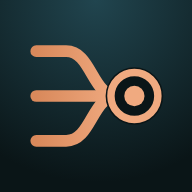
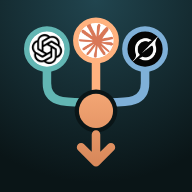
The Switchboard mark, a working screen, a project dropdown, and top answer wording
- Mark: ChatGPT, Claude and Grok feeding one copper point; used as the app icon, on the login screen and while working
- Working screen replaces the question box while the AIs answer, with per-AI progress
- Project dropdown under the pill with icons and a one-line explanation
- One wide Ask button with an arrow; Improve moves up beside the question
- Tagline shows on phones; top answer wording throughout; provider logos served from the app

Claude-Session: https://claude.ai/code/session_01MbFi8CK9HjwumDj8FfHCF7

Changed region(s): [[0.125, 0.0625, 0.875, 0.875]]

diff --git a/app/page.tsx b/app/page.tsx
@@ -167,6 +167,13 @@ export default function Home() {
   }
   function pickPreset(p: Preset) { setPresetLocked(true); applyPreset(p); }
   useEffect(() => { if (!idea.trim()) setPresetLocked(false); }, [idea]);
+  useEffect(() => {
+    if (!picking) return;
+    const away = (e: Event) => { if (!(e.target as Element)?.closest?.(".projwrap")) setPicking(false); };
+    const key = (e: KeyboardEvent) => { if (e.key === "Escape") setPicking(false); };
+    document.addEventListener("pointerdown", away); document.addEventListener("keydown", key);
+    return () => { document.removeEventListener("pointerdown", away); document.removeEventListener("keydown", key); };
+  }, [picking]);
   function onIdeaChange(v: string) {
     setIdea(v);
     const id = predictPreset(v);
@@ -214,8 +221,8 @@ export default function Home() {
       setHistory((h) => saveHistory(h.map((x) => (x.id === id ? { ...x, verdict: v, updatedAt: Date.now() } : x))));
       sync.syncSoon();
       if (activeRun.current !== id) return;
-      setVerdict(v); setAnnounce("Best answer ready.");
-    } catch (e: any) { if (activeRun.current === id) setErr(`Couldn't combine the answers: ${e.message} Tap "Combine these answers" to try again.`); } finally { setJudging(false); }
+      setVerdict(v); setAnnounce("Top answer ready.");
+    } catch (e: any) { if (activeRun.current === id) setErr(`Couldn't get the top answer: ${e.message} Tap "Get the top answer" to try again.`); } finally { setJudging(false); }
   }
 
   async function runOne(provider: ProviderId, prompt: string, id: string): Promise<RunResult> {
@@ -256,7 +263,7 @@ export default function Home() {
     const id = uid(); setRunId(id); setRunPrompt(prompt); activeRun.current = id;
     setAnnounce(`Sent to ${targets.map(label).join(", ")}.`);
     setResults(Object.fromEntries(targets.map((s) => [s, "loading" as const])));
-    setTimeout(() => resultsRef.current?.scrollIntoView({ behavior: scrollBehavior(), block: "start" }), 50);
+    setTimeout(() => window.scrollTo({ top: 0, behavior: scrollBehavior() }), 50);
 
     const finished = await Promise.all(targets.map((provider) => runOne(provider, prompt, id)));
 
@@ -295,10 +302,10 @@ export default function Home() {
   const askLabel = sendable.length > 2 ? `Ask ${sendable.length} AIs` : sendable.length ? `Ask ${sendable.map(label).join(" + ")}` : "";
   const nextStep = !sendable.length ? "Pick at least one AI above."
     : running ? (mode === "image" ? "Drawing. Pictures take about half a minute." : "Asking. Answers take up to a minute.")
-    : judging ? "Combining the answers into one. About a minute."
+    : judging ? "Working out the top answer. About a minute."
     : verdict ? "Done. Copy the answer, or tap Change something to adjust it."
     : done.length && mode === "image" ? "Done. Tap Save image to keep one, or Change something to adjust it."
-    : done.length && canJudge ? "Answers are in. Tap Combine these answers to get one best answer."
+    : done.length && canJudge ? "Answers are in. Tap Get the top answer."
     : done.length ? "Done. Tap Change something to adjust it, or Start over."
     : brief ? `Your improved question is ready. Tap ${askLabel}.`
     : idea.trim() ? `Tap ${askLabel}. Or improve the question first, if you want.`
@@ -307,12 +314,30 @@ export default function Home() {
   return (
     <main>
       <header className="top">
-        <h1 className="brand">Switchboard<span>ask once · several AIs answer · one best answer</span></h1>
+        <h1 className="brand">Switchboard<span>ask once · get the top answer</span></h1>
         <div className="topright">
-          <button className={`projpill ${project?.id !== "none" ? "has" : ""}`} aria-expanded={picking} aria-controls="projects" onClick={() => { setPicking((v) => !v); setNaming(false); }}>
-            <svg aria-hidden="true" width="14" height="14" viewBox="0 0 24 24" fill="none" stroke="currentColor" strokeWidth="2.2" strokeLinecap="round" strokeLinejoin="round"><path d="M3 7a2 2 0 0 1 2-2h4l2 2h8a2 2 0 0 1 2 2v9a2 2 0 0 1-2 2H5a2 2 0 0 1-2-2z" /></svg>
-            <span>{project?.id !== "none" ? project.name : "Project"}</span>
-          </button>
+          <div className="projwrap">
+            <button className={`projpill ${project?.id !== "none" ? "has" : ""}`} aria-expanded={picking} aria-haspopup="menu" aria-controls="projects" onClick={() => { setPicking((v) => !v); setNaming(false); }}>
+              <span>{project?.id !== "none" ? project.name : "No project"}</span>
+              <svg aria-hidden="true" width="12" height="12" viewBox="0 0 24 24" fill="none" stroke="currentColor" strokeWidth="2.6" strokeLinecap="round" strokeLinejoin="round"><path d="M6 9l6 6 6-6" /></svg>
+            </button>
+            {picking && (
+              <div className="projmenu" id="projects" role="menu" aria-label="Projects">
+                <button role="menuitemradio" aria-checked={project?.id === "none"} className={project?.id === "none" ? "on" : ""} onClick={() => { chooseProject("none"); setEditingProject(false); setPicking(false); }}>
+                  <svg aria-hidden="true" width="16" height="16" viewBox="0 0 24 24" fill="none" stroke="currentColor" strokeWidth="2" strokeLinecap="round" strokeLinejoin="round"><path d="M3 7a2 2 0 0 1 2-2h4l2 2h8a2 2 0 0 1 2 2v9a2 2 0 0 1-2 2H5a2 2 0 0 1-2-2z" /></svg>No project
+                </button>
+                {shownProjects.filter((p) => p.id !== "none").map((p) => (
+                  <button key={p.id} role="menuitemradio" aria-checked={project?.id === p.id} className={project?.id === p.id ? "on" : ""} onClick={() => { chooseProject(p.id); setEditingProject(false); setPicking(false); }}>
+                    <svg aria-hidden="true" width="16" height="16" viewBox="0 0 24 24" fill="none" stroke="currentColor" strokeWidth="2" strokeLinecap="round" strokeLinejoin="round"><rect x="4" y="11" width="16" height="10" rx="2" /><path d="M8 11V7a4 4 0 0 1 8 0v4" /></svg>{p.name}
+                  </button>
+                ))}
+                <button role="menuitem" className="new" onClick={() => { setPicking(false); setNaming(true); }}>
+                  <svg aria-hidden="true" width="16" height="16" viewBox="0 0 24 24" fill="none" stroke="currentColor" strokeWidth="2.4" strokeLinecap="round"><path d="M12 5v14M5 12h14" /></svg>New project…
+                </button>
+                <p>A project holds things every AI should always know, like a brand's colors or a client's situation.</p>
+              </div>
+            )}
+          </div>
           {Object.keys(results).length > 0 && (
             <button className="iconbtn" aria-label="Start over" title="Start over" onClick={() => { activeRun.current = null; setRunId(null); setRunPrompt(""); setErr(""); setRounds([]); setRevising(false); setResults({}); setVerdict(""); setBrief(""); setIdea(""); setPresetLocked(false); window.scrollTo({ top: 0, behavior: scrollBehavior() }); }}>
               <svg aria-hidden="true" width="20" height="20" viewBox="0 0 24 24" fill="none" stroke="currentColor" strokeWidth="2.2" strokeLinecap="round"><path d="M12 5v14M5 12h14"/></svg>
@@ -341,19 +366,6 @@ export default function Home() {
           {history.length > 0 && (
             <ConfirmButton label="Clear history" question={sync.status.state === "off" ? "Clear all history?" : "Clear all history on every device?"} yes="Clear" no="Keep" onYes={() => { sync.markCleared(); setHistory([]); save(LS.history, []); historyCache.partial = false; setShowAllHistory(false); }} />
           )}
-        </section>
-      )}
-
-      {picking && (
-        <section className="panel projects" id="projects" aria-label="Projects">
-          <p className="muted projwhy">A project is a place for things every AI should always know, like a brand's colors or a client's situation. Pick one and every answer keeps it in mind.</p>
-          <div className="chips projlist" role="group" aria-label="Choose a project">
-            <button className={`chip ${project?.id === "none" ? "on" : ""}`} aria-pressed={project?.id === "none"} onClick={() => { chooseProject("none"); setEditingProject(false); setPicking(false); }}>No project</button>
-            {shownProjects.filter((p) => p.id !== "none").map((p) => (
-              <button key={p.id} className={`chip ${project?.id === p.id ? "on" : ""}`} aria-pressed={project?.id === p.id} onClick={() => { chooseProject(p.id); setEditingProject(false); setPicking(false); }}>{p.name}</button>
-            ))}
-            <button className="chip newchip" onClick={() => { setPicking(false); setNaming(true); }}>+ New project</button>
-          </div>
         </section>
       )}
 
@@ -392,11 +404,17 @@ export default function Home() {
         </section>
       )}
 
-      {/* Idea */}
-      <section className="panel idea">
+      {/* Idea. Folds away while the AIs work, so the working screen is what you see. */}
+      <section className="panel idea" hidden={running || judging}>
         <div className="row"><label className="lbl" htmlFor="idea">Ask anything</label><span className="modepill">{mode === "image" ? "Picture" : "Words"}</span></div>
         <textarea id="idea" rows={4} value={idea} onChange={(e) => onIdeaChange(e.target.value)} onKeyDown={(e) => { if ((e.metaKey || e.ctrlKey) && e.key === "Enter") { e.preventDefault(); send(); } }}
           placeholder="Type your question or what you want made. Rough is fine." />
+        {!done.length && (
+          <div className="row improverow">
+            <span className="muted">Optional</span>
+            <button className="ghost small" disabled={!idea.trim() || briefing} onClick={sharpen}>{briefing ? "Improving…" : brief ? "Improve it again" : "Improve my question first"}</button>
+          </div>
+        )}
 
         <div className="chips" role="group" aria-label="What kind of help">
           {PRESETS.map((p) => (
@@ -429,8 +447,8 @@ export default function Home() {
         </div>
         {mode === "text" && (
           <div className="row judgeRow">
-            <label className="switch"><input type="checkbox" checked={autoJudge} onChange={(e) => setAutoJudge(e.target.checked)} /><span className="track"><span className="knob" /></span> Combine the answers</label>
-            <select className="inline" aria-label="Which AI combines them" value={judgeWith} onChange={(e) => setJudgeWith(e.target.value as ProviderId)}>
+            <label className="switch"><input type="checkbox" checked={autoJudge} onChange={(e) => setAutoJudge(e.target.checked)} /><span className="track"><span className="knob" /></span> Get the top answer</label>
+            <select className="inline" aria-label="Which AI picks the top answer" value={judgeWith} onChange={(e) => setJudgeWith(e.target.value as ProviderId)}>
               {providers.filter((p) => p.configured).map((p) => <option key={p.id} value={p.id}>by {p.label}</option>)}
             </select>
           </div>
@@ -465,11 +483,29 @@ export default function Home() {
 
       <div ref={resultsRef} className="anchor" />
 
+      {(running || judging) && (
+        <section className="panel working" aria-live="polite">
+          <Mark size={96} />
+          <h2>{running ? `Asking ${Object.keys(results).length} AI${Object.keys(results).length === 1 ? "" : "s"}…` : "Working out the top answer…"}</h2>
+          <p className="muted">{running ? "Each one answers on its own. Then one of them picks the best of all of them." : `${label(judgeWith)} is reading every answer and writing the top one.`}</p>
+          <ul className="progress">
+            {Object.entries(results).map(([pid, r]) => (
+              <li key={pid} className={r === "loading" ? "wait" : r.error ? "bad" : "done"}>
+                <Logo id={pid as ProviderId} /><span>{label(pid as ProviderId)}</span>
+                <small>{r === "loading" ? (running ? "Thinking…" : "") : r.error ? "Failed" : "Done"}</small>
+                <i><b /></i>
+              </li>
+            ))}
+          </ul>
+          <p className="muted small">This usually takes about a minute.</p>
+        </section>
+      )}
+
       {/* Verdict first — it's the thing you actually use */}
-      {(judging || verdict) && (
-        <section className="panel verdict" aria-busy={judging}>
+      {verdict && !judging && (
+        <section className="panel verdict">
           <div className="row">
-            <h2 className="lbl">{judging ? "Combining the answers…" : `Best answer · combined by ${label(judgeWith)}`}</h2>
+            <h2 className="lbl">{judging ? "Working out the top answer…" : `Top answer · by ${label(judgeWith)}`}</h2>
             {verdict && <CopyBtn text={bestAnswer(verdict)} label="Copy" />}
           </div>
           {judging ? <Skeleton /> : (() => {
@@ -500,7 +536,7 @@ export default function Home() {
         </section>
       )}
       {canJudge && !verdict && (
-        <button className="primary wide" onClick={() => judge(done, (brief || idea).trim(), runId ?? uid())}>Combine these answers</button>
+        <button className="primary wide" onClick={() => judge(done, (brief || idea).trim(), runId ?? uid())}>Get the top answer</button>
       )}
 
       {/* Once there's a verdict, the individual answers step back behind one button. */}
@@ -579,22 +615,18 @@ export default function Home() {
         <section className="howto">
           <div><b>1</b><span>Type a question</span></div>
           <div><b>2</b><span>Pick which AIs answer</span></div>
-          <div><b>3</b><span>Get one best answer</span></div>
+          <div><b>3</b><span>Get the top answer</span></div>
         </section>
       )}
 
       {!revising && <div className="actionbar">
         <p className="nextstep" role="status">{nextStep}</p>
         <div className="actionrow">
-        {done.length > 0 && !running ? (
+        {done.length > 0 && !running && (
           <button className="ghost" aria-expanded={revising} onClick={() => { setRevising(true); setTimeout(() => document.querySelector(".revise")?.scrollIntoView({ behavior: scrollBehavior(), block: "start" }), 60); }}>Change something</button>
-        ) : (
-          <button className="ghost" disabled={!idea.trim() || briefing} onClick={sharpen}>
-            {briefing ? "Improving…" : brief ? "Improve again" : "Improve it first"}
-          </button>
         )}
         <button className="primary" disabled={!(brief || idea).trim() || !sendable.length || running} onClick={() => send()}>
-          {running ? `Asking… ${done.length} of ${Object.keys(results).length} back` : sendable.length ? (sendable.length > 2 ? `Ask ${sendable.length} AIs` : `Ask ${sendable.map(label).join(" + ")}`) : "Pick at least one AI"}
+          {running ? `Asking… ${done.length} of ${Object.keys(results).length} back` : sendable.length ? `${askLabel} →` : "Pick at least one AI"}
         </button>
         </div>
       </div>}
@@ -726,6 +758,24 @@ function ResultImage({ src, name, alt }: { src: string; name: string; alt: strin
         <span role="status">{note || "Or press and hold the image."}</span>
       </figcaption>
     </figure>
+  );
+}
+
+// The Switchboard mark: three sources feeding one point.
+function Mark({ size }: { size: number }) {
+  return (
+    <svg className="markimg" viewBox="20 18 140 140" width={size} height={size} aria-hidden="true">
+      <defs>
+        <clipPath id="mk1"><circle cx="44" cy="46" r="17" /></clipPath><clipPath id="mk2"><circle cx="90" cy="38" r="17" /></clipPath><clipPath id="mk3"><circle cx="136" cy="46" r="17" /></clipPath>
+      </defs>
+      <g fill="none" strokeWidth="8" strokeLinecap="round"><path d="M44 63 V78 C44 96 60 96 78 96 H90" stroke="#62b6b3" /><path d="M90 55 V96" stroke="#ffb27f" /><path d="M136 63 V78 C136 96 120 96 102 96 H90" stroke="#7fb0d8" /></g>
+      <image href="/logos/openai.png" x="27" y="29" width="34" height="34" clipPath="url(#mk1)" />
+      <image href="/logos/anthropic.png" x="73" y="21" width="34" height="34" clipPath="url(#mk2)" />
+      <image href="/logos/xai.png" x="119" y="29" width="34" height="34" clipPath="url(#mk3)" />
+      <g fill="none" strokeWidth="5"><circle cx="44" cy="46" r="19" stroke="#62b6b3" /><circle cx="90" cy="38" r="19" stroke="#ffb27f" /><circle cx="136" cy="46" r="19" stroke="#7fb0d8" /></g>
+      <circle cx="90" cy="104" r="20" fill="var(--panel)" /><circle cx="90" cy="104" r="16" fill="var(--accent2)" />
+      <path d="M90 126 V150 M76 138 L90 152 L104 138" fill="none" stroke="var(--accent2)" strokeWidth="8" strokeLinecap="round" strokeLinejoin="round" />
+    </svg>
   );
 }
 

diff --git a/app/globals.css b/app/globals.css
@@ -102,11 +102,17 @@ body::before { content: ""; position: fixed; top: 0; left: 0; right: 0; height: 
 .projpill span { overflow: hidden; text-overflow: ellipsis; white-space: nowrap; }
 .projpill svg { flex: none; }
 .projpill.has { color: var(--text); border-color: var(--accent); }
-.projpill.has svg { color: var(--accent2); }
-.projects { display: flex; flex-direction: column; gap: 10px; animation: open 200ms var(--ease-out) backwards; }
-.projwhy { margin: 0; max-width: 60ch; }
-.projlist { margin-top: 0; }
-.newchip { border-style: dashed; color: var(--accent2); }
+.projpill svg { color: var(--muted); }
+.topright { position: relative; }
+.projmenu { position: absolute; right: 0; top: calc(100% + 8px); text-align: left; z-index: 30; width: min(300px, calc(100vw - 32px)); padding: 6px; background: var(--panel); border: 1px solid var(--line2); border-radius: var(--r); box-shadow: 0 16px 40px rgba(0, 0, 0, 0.45); animation: open 160ms var(--ease-out) backwards; }
+.projmenu button { display: flex; align-items: center; gap: 10px; width: 100%; text-align: left; background: none; border: 0; border-radius: 10px; padding: 11px 12px; font-weight: 700; font-size: 0.9375rem; color: var(--text); }
+.projmenu button svg { flex: none; color: var(--muted); }
+.projmenu button.on { background: rgba(var(--accent-rgb), 0.14); color: var(--accent2); }
+.projmenu button.on svg { color: var(--accent2); }
+.projmenu button.new { color: var(--accent2); }
+.projmenu button.new svg { color: var(--accent2); }
+@media (hover: hover) { .projmenu button:hover { background: rgba(var(--white-rgb), 0.05); } }
+.projmenu p { margin: 4px 0 2px; padding: 8px 12px 6px; border-top: 1px solid var(--line); font-size: 0.75rem; color: var(--muted); }
 .iconbtn { position: relative; width: 40px; height: 40px; border-radius: var(--pill); border: 1px solid var(--field-line); background: var(--panel); color: var(--muted); display: grid; place-items: center; padding: 0; }
 .badge { position: absolute; top: -4px; right: -4px; background: var(--accent); color: var(--accent-ink); font-size: 0.625rem; font-weight: 800; border-radius: var(--pill); min-width: 18px; height: 18px; display: grid; place-items: center; padding: 0 4px; }
 
@@ -150,6 +156,26 @@ button:disabled { opacity: 0.4; cursor: not-allowed; }
 .newproject input { flex: 1 1 130px; min-width: 0; background: var(--bg2); border: 1px solid var(--field-line); border-radius: var(--r-sm); padding: 10px 12px; font-size: max(16px, 1rem); }
 .newproject .row { margin-top: 10px; }
 .newproject { animation: open 200ms var(--ease-out) backwards; }
+
+.improverow { justify-content: flex-end; gap: 10px; margin-top: 8px; }
+.improverow .muted { margin: 0; font-size: 0.75rem; }
+
+/* Working: while the AIs answer and the top answer is picked */
+.working { display: flex; flex-direction: column; align-items: center; text-align: center; gap: 6px; padding: 22px 16px 18px; border-color: var(--accent); background: linear-gradient(180deg, rgba(var(--accent-rgb), 0.1), rgba(var(--accent-rgb), 0.02)), var(--panel); }
+.working h2 { margin: 6px 0 0; font: 700 1.375rem/1.2 var(--display); letter-spacing: -0.01em; color: var(--text); }
+.working > .muted { margin: 0; max-width: 34ch; }
+.working .small { font-size: 0.75rem; margin-top: 6px; }
+.markimg { filter: drop-shadow(0 10px 24px rgba(var(--accent-rgb), 0.3)); }
+.progress { list-style: none; margin: 14px 0 0; padding: 12px 14px; width: 100%; max-width: 420px; display: flex; flex-direction: column; gap: 12px; background: var(--bg2); border: 1px solid var(--line); border-radius: var(--r-sm); text-align: left; }
+.progress li { display: grid; grid-template-columns: 22px 1fr auto; grid-template-rows: auto auto; column-gap: 10px; row-gap: 6px; align-items: center; font-weight: 700; font-size: 0.9375rem; }
+.progress li small { color: var(--muted); font-weight: 600; font-size: 0.8125rem; }
+.progress li.done small { color: var(--accent2); }
+.progress li.bad small { color: var(--red); }
+.progress li i { grid-column: 1 / -1; display: block; height: 4px; border-radius: 4px; background: var(--line); overflow: hidden; }
+.progress li b { display: block; height: 100%; width: 100%; border-radius: 4px; background: linear-gradient(90deg, var(--accent), var(--accent2)); transform-origin: left; }
+.progress li.wait b { width: 40%; animation: slide 1.4s ease-in-out infinite; }
+.progress li.bad b { background: var(--red); width: 100%; }
+@keyframes slide { 0% { transform: translateX(-100%); } 100% { transform: translateX(260%); } }
 
 /* Chips: task types, image styles, AIs */
 .chips { display: flex; gap: 8px; flex-wrap: wrap; margin-top: 14px; }
@@ -331,6 +357,7 @@ span.logo { display: inline-block; } /* holds the space while the logo loads */
 .login input { background: var(--bg2); border: 1px solid var(--field-line); border-radius: var(--r-sm); padding: 13px 14px; font-size: max(16px, 1rem); }
 .login .error { margin: 0; }
 .login .brand { margin-bottom: 6px; }
+.login .mark { display: flex; justify-content: center; margin: 4px 0 8px; filter: drop-shadow(0 10px 28px rgba(var(--accent-rgb), 0.25)); }
 
 /* Focus: fields get an inset copper ring, everything else an offset one */
 textarea:focus, select:focus, input:focus { outline: 2px solid var(--accent); outline-offset: -1px; }
@@ -370,7 +397,7 @@ button:focus-visible, a:focus-visible, summary:focus-visible, .tablewrap:focus-v
 }
 @media (max-width: 480px) {
   .brand { font-size: 1.5rem; }
-  .brand span { display: none; }
+  .brand span { font-size: 0.5625rem; letter-spacing: 0.08em; white-space: nowrap; }
   .projpill { max-width: 118px; padding: 7px 10px; font-size: 0.75rem; }
   .iconbtn { width: 36px; height: 36px; }
   .howto div { font-size: 0.75rem; padding: 10px; }
@@ -416,6 +443,7 @@ button:focus-visible, a:focus-visible, summary:focus-visible, .tablewrap:focus-v
   .best::before { animation: none; }
   .lockeditor, .briefpanel, .newproject, .projects, .revise, .panel[aria-label="History"] { animation-name: settle; }
   .skeleton span { background: var(--line); animation: breathe 1.6s ease-in-out infinite alternate; }
+  .progress li.wait b { animation: breathe 1.4s ease-in-out infinite alternate; transform: none; width: 100%; }
   button:active:not(:disabled) { transform: none; }
   .knob { transition: none; }
   .grading summary::before { transition: none; }

diff --git a/app/login/page.tsx b/app/login/page.tsx
@@ -23,7 +23,21 @@ export default function Login() {
   return (
     <main className="login">
       <form onSubmit={go} className="panel">
-        <h1 className="brand">Switchboard<span>ask once · several AIs answer · one best answer</span></h1>
+        <div className="mark" aria-hidden="true">
+          <svg viewBox="20 18 140 140" width="128" height="128">
+      <defs>
+        <clipPath id="mk1"><circle cx="44" cy="46" r="17" /></clipPath><clipPath id="mk2"><circle cx="90" cy="38" r="17" /></clipPath><clipPath id="mk3"><circle cx="136" cy="46" r="17" /></clipPath>
+      </defs>
+      <g fill="none" strokeWidth="8" strokeLinecap="round"><path d="M44 63 V78 C44 96 60 96 78 96 H90" stroke="#62b6b3" /><path d="M90 55 V96" stroke="#ffb27f" /><path d="M136 63 V78 C136 96 120 96 102 96 H90" stroke="#7fb0d8" /></g>
+      <image href="/logos/openai.png" x="27" y="29" width="34" height="34" clipPath="url(#mk1)" />
+      <image href="/logos/anthropic.png" x="73" y="21" width="34" height="34" clipPath="url(#mk2)" />
+      <image href="/logos/xai.png" x="119" y="29" width="34" height="34" clipPath="url(#mk3)" />
+      <g fill="none" strokeWidth="5"><circle cx="44" cy="46" r="19" stroke="#62b6b3" /><circle cx="90" cy="38" r="19" stroke="#ffb27f" /><circle cx="136" cy="46" r="19" stroke="#7fb0d8" /></g>
+      <circle cx="90" cy="104" r="20" fill="var(--panel)" /><circle cx="90" cy="104" r="16" fill="var(--accent2)" />
+      <path d="M90 126 V150 M76 138 L90 152 L104 138" fill="none" stroke="var(--accent2)" strokeWidth="8" strokeLinecap="round" strokeLinejoin="round" />
+          </svg>
+        </div>
+        <h1 className="brand">Switchboard<span>ask once · get the top answer</span></h1>
         <label className="sr" htmlFor="pw">Password</label>
         <input id="pw" type="password" aria-invalid={!!err} aria-describedby={err ? "pwerr" : undefined} autoFocus placeholder="Password" value={pw} onChange={(e) => setPw(e.target.value)} autoComplete="current-password" />
         {err && <div id="pwerr" className="error" role="alert">{err}</div>}

diff --git a/app/layout.tsx b/app/layout.tsx
@@ -10,7 +10,7 @@ const manrope = Manrope({ subsets: ["latin"], display: "swap", variable: "--font
 
 export const metadata: Metadata = {
   title: "Switchboard",
-  description: "Ask once. Several AIs answer. Get one best answer.",
+  description: "Ask once. Get the top answer.",
   appleWebApp: { capable: true, statusBarStyle: "black-translucent", title: "Switchboard" },
 };
 
